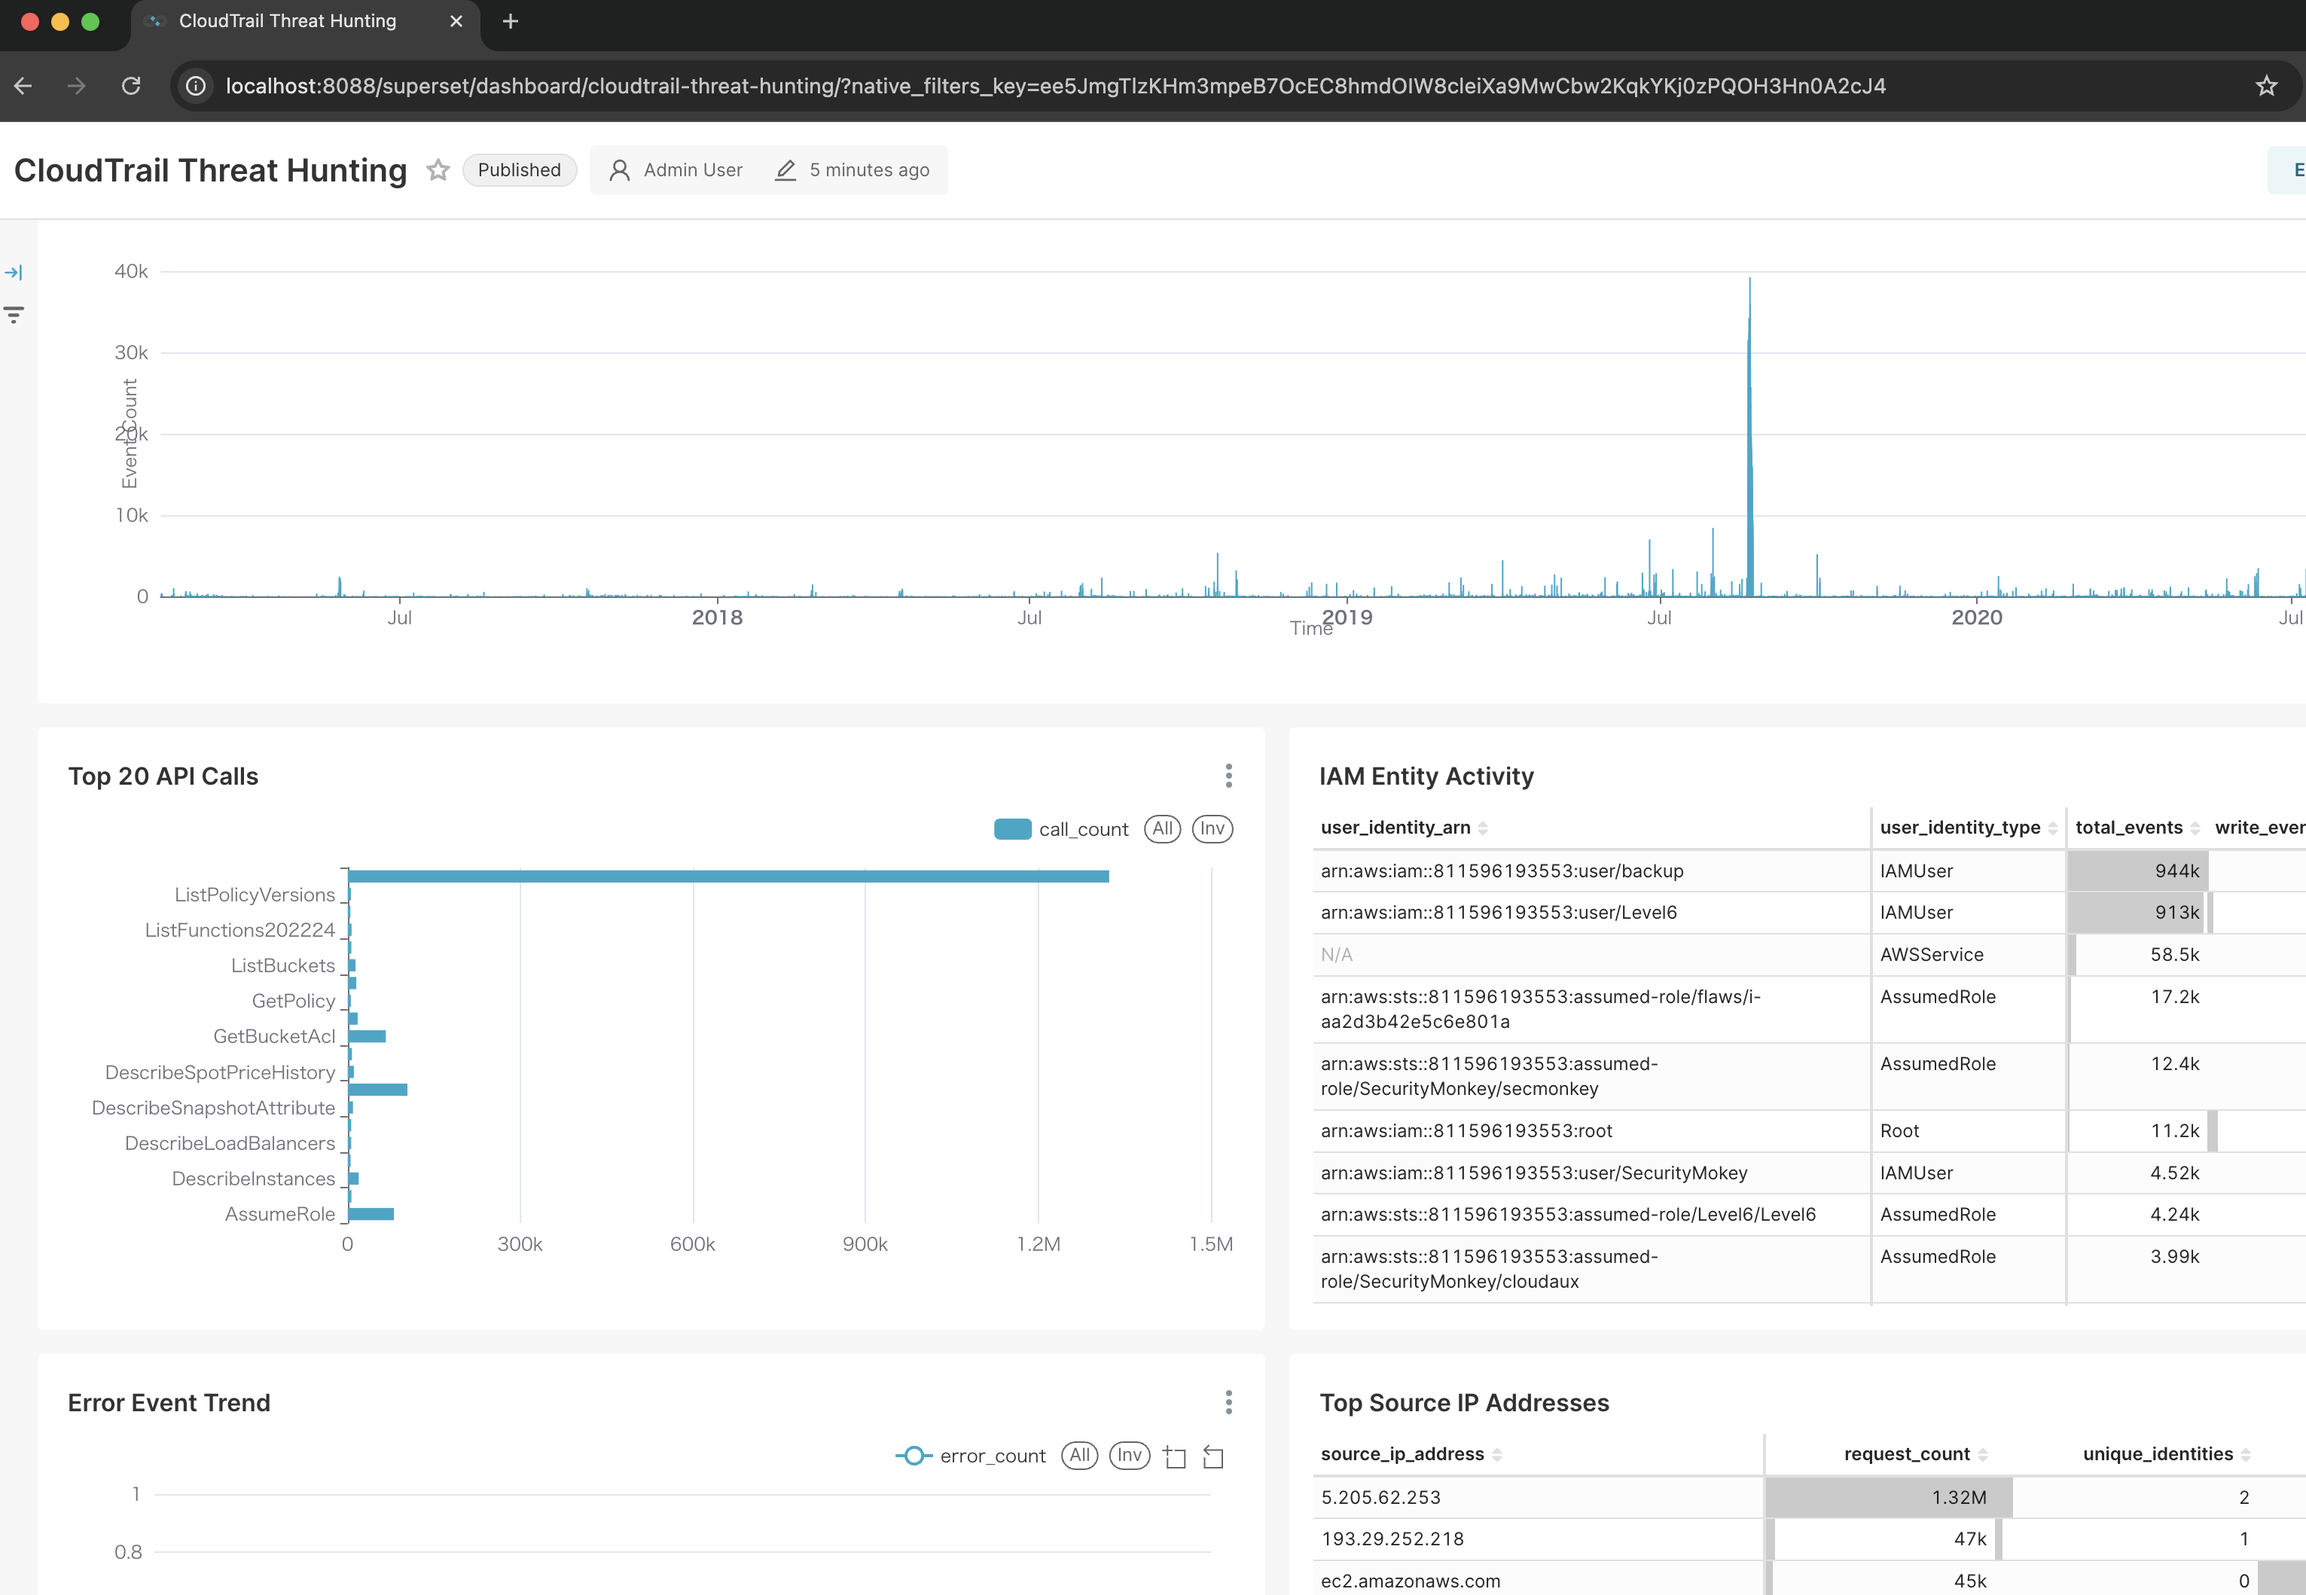
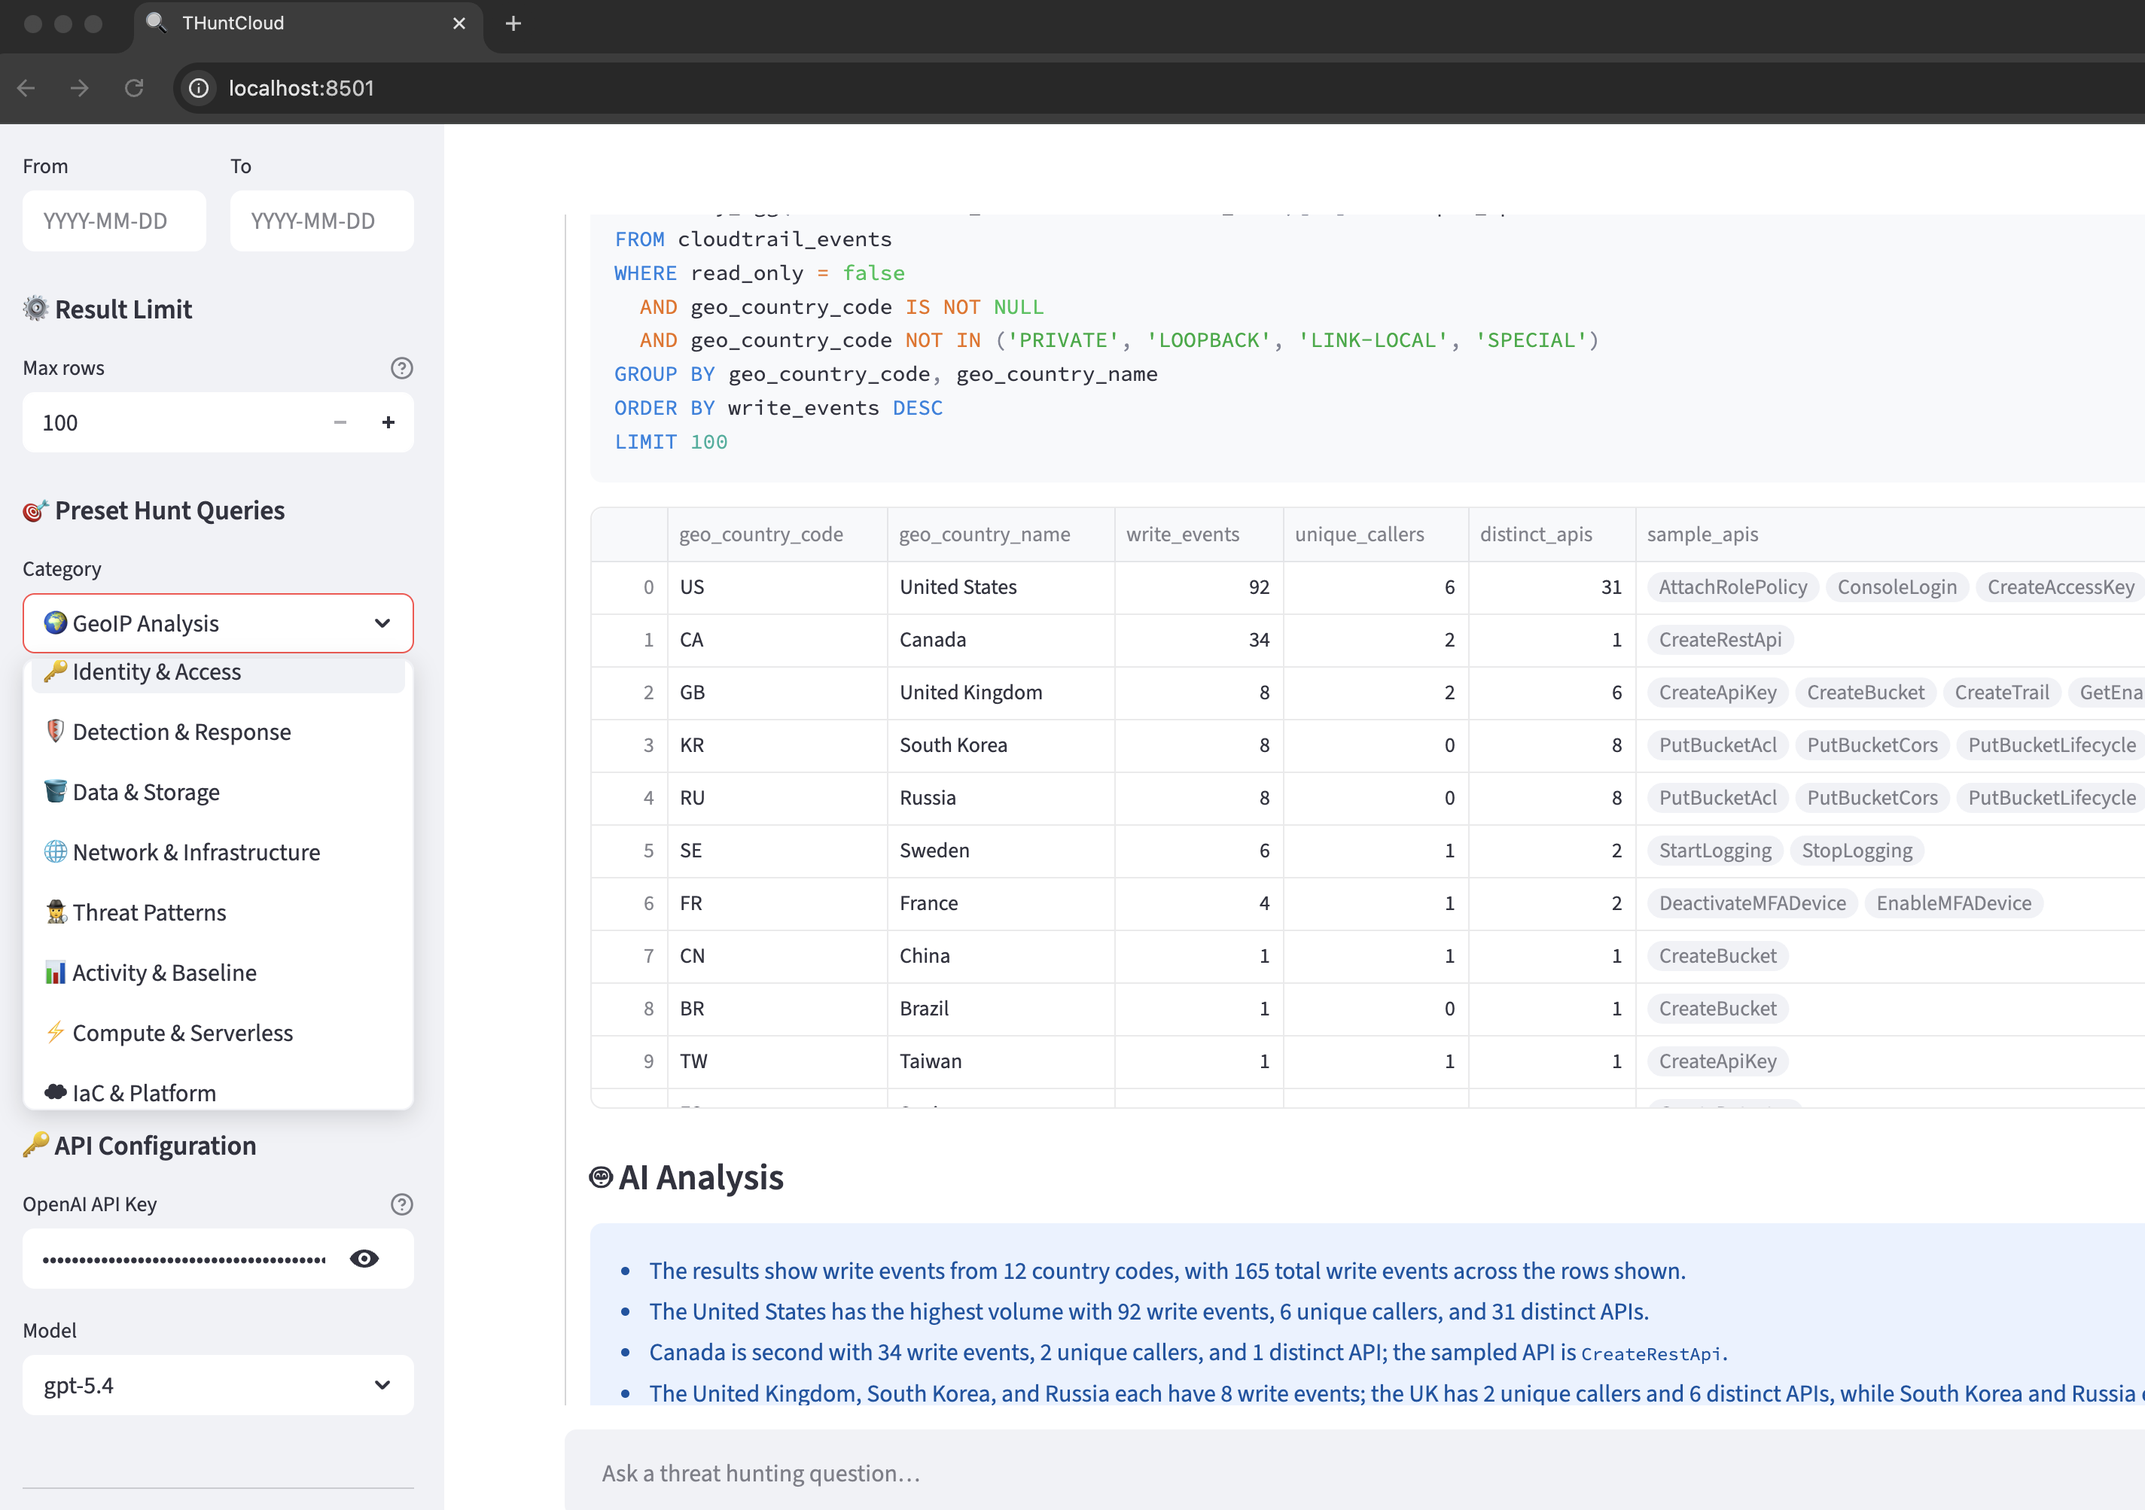
docs: update image references in README for AI Agent and Superset Dashboard

diff --git a/README.md b/README.md
@@ -21,11 +21,11 @@ Drop in your CloudTrail logs, run one command, and start hunting threats immedia
 
 ### AI Agent (Streamlit UI)
 
-<img src="doc/img2.png" width="800" alt="AI Agent UI">
+<img src="doc/img1.png" width="800" alt="AI Agent UI">
 
 ### Dashboard (Apache Superset)
 
-<img src="doc/img1.png" width="800" alt="Superset Dashboard">
+<img src="doc/img2.png" width="800" alt="Superset Dashboard">
 
 ---
 
